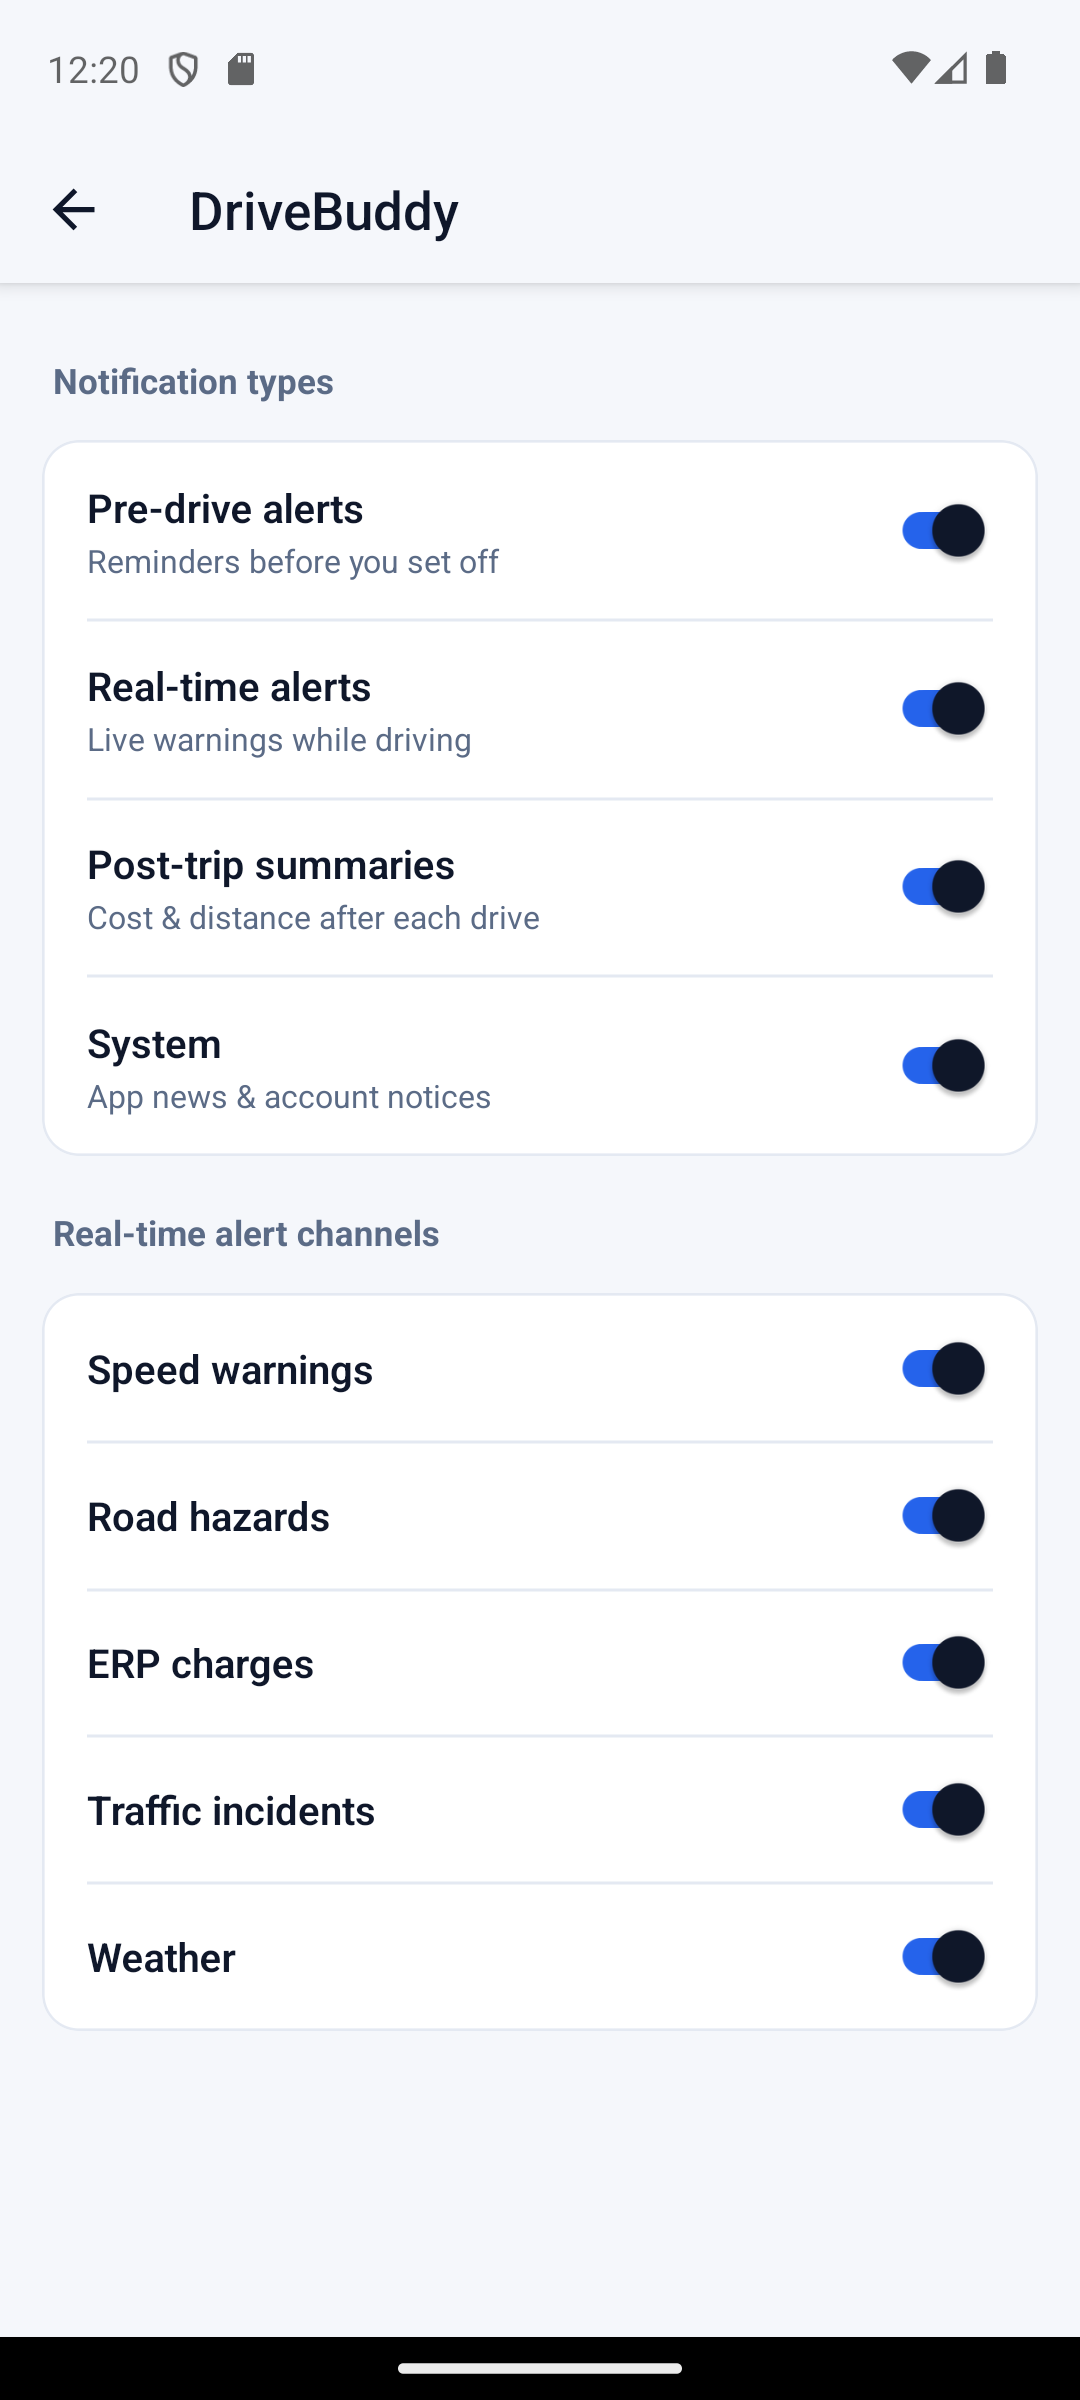
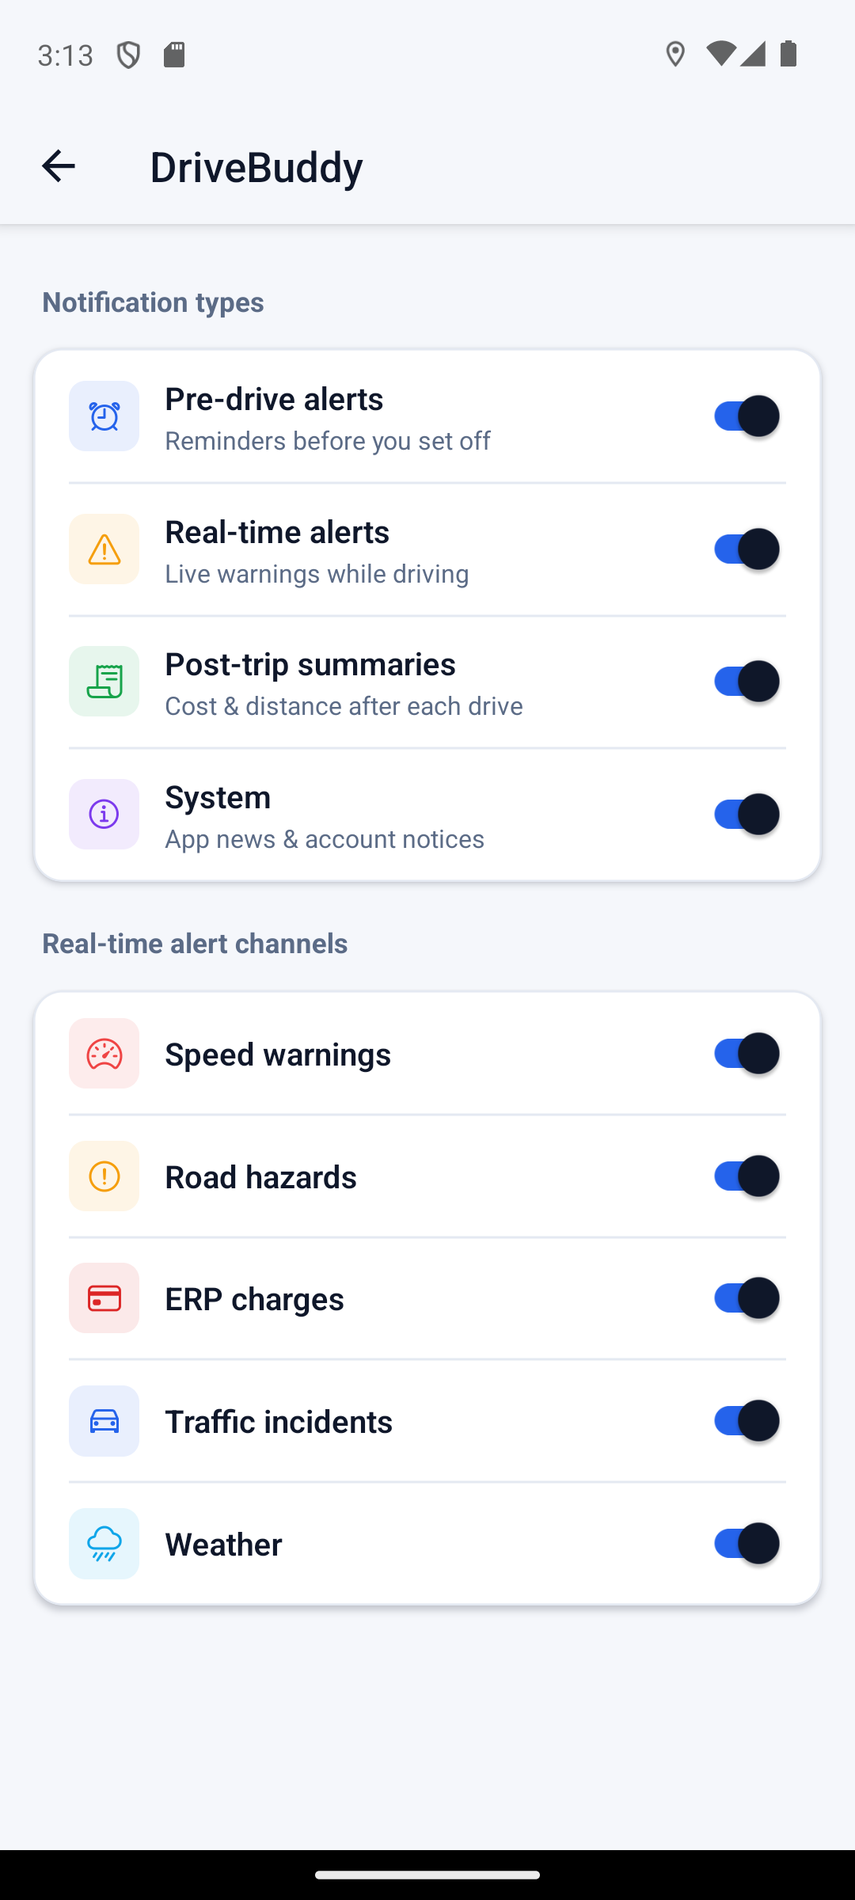
feat(ui): wow pass for settings, profile, vehicles, notifications, notif-settings
- settings: gradient avatar + coloured icon rows with chevrons + shadows
- profile: gradient Save button via Button primitive
- vehicles: fuel-type icon badges (petrol/hybrid/electric) + shadows
- notifications: per-type icon badges (pre-drive/real-time/post-trip/system) + shadows
- notification-settings: icon badges on every type & channel row + shadows
- refresh the five affected README screenshots

diff --git a/apps/drivebuddy/app/settings.tsx b/apps/drivebuddy/app/settings.tsx
@@ -1,8 +1,13 @@
 import Constants from "expo-constants";
 import { Pressable, ScrollView, StyleSheet, Text, View } from "react-native";
 import { SafeAreaView } from "react-native-safe-area-context";
+import { LinearGradient } from "expo-linear-gradient";
+import { Ionicons } from "@expo/vector-icons";
 import { useRouter } from "expo-router";
 import { useAuth } from "@/lib/auth-context";
+import { accent, colors, gradients, radius, shadow } from "@/lib/theme";
+
+type IoniconName = React.ComponentProps<typeof Ionicons>["name"];
 
 export default function SettingsScreen() {
   const router = useRouter();
@@ -14,9 +19,14 @@ export default function SettingsScreen() {
     <SafeAreaView style={styles.container} edges={["bottom"]}>
       <ScrollView contentContainerStyle={styles.inner}>
         <View style={styles.profileCard}>
-          <View style={styles.avatar}>
+          <LinearGradient
+            colors={gradients.primary as unknown as string[]}
+            start={{ x: 0, y: 0 }}
+            end={{ x: 1, y: 1 }}
+            style={styles.avatar}
+          >
             <Text style={styles.avatarText}>{(user?.fullName ?? "?").charAt(0).toUpperCase()}</Text>
-          </View>
+          </LinearGradient>
           <View style={{ flex: 1 }}>
             <Text style={styles.name}>{user?.fullName ?? "DriveBuddy user"}</Text>
             <Text style={styles.email}>{user?.email ?? ""}</Text>
@@ -25,15 +35,15 @@ export default function SettingsScreen() {
 
         <Text style={styles.section}>Account</Text>
         <View style={styles.group}>
-          <Row label="Edit profile" onPress={() => router.push("/profile")} />
-          <Row label="My vehicles" onPress={() => router.push("/vehicles")} />
-          <Row label="Notification settings" onPress={() => router.push("/notification-settings")} last />
+          <Row label="Edit profile" icon="person-outline" tint={accent.weather} onPress={() => router.push("/profile")} />
+          <Row label="My vehicles" icon="car-outline" tint={accent.fuel} onPress={() => router.push("/vehicles")} />
+          <Row label="Notification settings" icon="notifications-outline" tint={accent.traffic} onPress={() => router.push("/notification-settings")} last />
         </View>
 
         <Text style={styles.section}>Activity</Text>
         <View style={styles.group}>
-          <Row label="Trip history" onPress={() => router.push("/history")} />
-          <Row label="Recommendations" onPress={() => router.push("/recommendations")} last />
+          <Row label="Trip history" icon="time-outline" tint={accent.routine} onPress={() => router.push("/history")} />
+          <Row label="Recommendations" icon="bulb-outline" tint={accent.carpark} onPress={() => router.push("/recommendations")} last />
         </View>
 
         <Text style={styles.section}>About</Text>
@@ -51,10 +61,26 @@ export default function SettingsScreen() {
   );
 }
 
-function Row({ label, onPress, last }: { label: string; onPress: () => void; last?: boolean }) {
+function Row({
+  label,
+  icon,
+  tint,
+  onPress,
+  last,
+}: {
+  label: string;
+  icon: IoniconName;
+  tint: string;
+  onPress: () => void;
+  last?: boolean;
+}) {
   return (
     <Pressable style={[styles.row, !last && styles.rowBorder]} onPress={onPress}>
+      <View style={[styles.rowIconWrap, { backgroundColor: tint + "1a" }]}>
+        <Ionicons name={icon} size={18} color={tint} />
+      </View>
       <Text style={styles.rowLabel}>{label}</Text>
+      <Ionicons name="chevron-forward" size={18} color={colors.textDim} />
     </Pressable>
   );
 }
@@ -82,19 +108,19 @@ const styles = StyleSheet.create({
     borderWidth: 1,
     borderRadius: 14,
     padding: 16,
+    ...shadow,
   },
-  avatar: { width: 52, height: 52, borderRadius: 26, backgroundColor: "#2563eb", alignItems: "center", justifyContent: "center" },
+  avatar: { width: 52, height: 52, borderRadius: 26, alignItems: "center", justifyContent: "center" },
   avatarText: { color: "#fff", fontSize: 22, fontWeight: "800" },
   name: { color: "#0f172a", fontSize: 17, fontWeight: "700" },
   email: { color: "#5b6b86", fontSize: 13, marginTop: 2 },
   section: { color: "#5b6b86", fontSize: 13, fontWeight: "700", marginTop: 14, marginLeft: 4 },
-  group: { backgroundColor: "#ffffff", borderColor: "#e4e9f2", borderWidth: 1, borderRadius: 14, paddingHorizontal: 16 },
-  row: { flexDirection: "row", alignItems: "center", gap: 12, paddingVertical: 14 },
+  group: { backgroundColor: "#ffffff", borderColor: "#e4e9f2", borderWidth: 1, borderRadius: 14, paddingHorizontal: 16, ...shadow },
+  row: { flexDirection: "row", alignItems: "center", gap: 12, paddingVertical: 13 },
   rowBorder: { borderBottomColor: "#e4e9f2", borderBottomWidth: 1 },
-  rowIcon: { fontSize: 18 },
+  rowIconWrap: { width: 34, height: 34, borderRadius: radius.sm, alignItems: "center", justifyContent: "center" },
   rowLabel: { color: "#0f172a", fontSize: 15, flex: 1 },
   infoValue: { color: "#5b6b86", fontSize: 13, maxWidth: "60%" },
-  chevron: { color: "#2563eb", fontSize: 22, fontWeight: "300" },
   signOut: { alignItems: "center", paddingVertical: 16, marginTop: 10 },
   signOutText: { color: "#dc2626", fontSize: 15, fontWeight: "700" },
 });

diff --git a/apps/drivebuddy/app/notification-settings.tsx b/apps/drivebuddy/app/notification-settings.tsx
@@ -1,25 +1,28 @@
 import { useCallback, useState } from "react";
 import { ScrollView, StyleSheet, Switch, Text, View } from "react-native";
+import { Ionicons } from "@expo/vector-icons";
 import { SkeletonList } from "@/components/skeleton";
 import { SafeAreaView } from "react-native-safe-area-context";
 import { useFocusEffect } from "expo-router";
 import { api, type NotificationSettings } from "@/lib/api";
+import { accent, radius, shadow } from "@/lib/theme";
 
 type ToggleKey = keyof Omit<NotificationSettings, "userId" | "updatedAt">;
+type IoniconName = React.ComponentProps<typeof Ionicons>["name"];
 
-const TYPES: { key: ToggleKey; label: string; desc: string }[] = [
-  { key: "preDrive", label: "Pre-drive alerts", desc: "Reminders before you set off" },
-  { key: "realTime", label: "Real-time alerts", desc: "Live warnings while driving" },
-  { key: "postTrip", label: "Post-trip summaries", desc: "Cost & distance after each drive" },
-  { key: "system", label: "System", desc: "App news & account notices" },
+const TYPES: { key: ToggleKey; label: string; desc: string; icon: IoniconName; tint: string }[] = [
+  { key: "preDrive", label: "Pre-drive alerts", desc: "Reminders before you set off", icon: "alarm-outline", tint: accent.routine },
+  { key: "realTime", label: "Real-time alerts", desc: "Live warnings while driving", icon: "warning-outline", tint: accent.traffic },
+  { key: "postTrip", label: "Post-trip summaries", desc: "Cost & distance after each drive", icon: "receipt-outline", tint: accent.fuel },
+  { key: "system", label: "System", desc: "App news & account notices", icon: "information-circle-outline", tint: accent.carpark },
 ];
 
-const CHANNELS: { key: ToggleKey; label: string }[] = [
-  { key: "speed", label: "Speed warnings" },
-  { key: "hazard", label: "Road hazards" },
-  { key: "erp", label: "ERP charges" },
-  { key: "traffic", label: "Traffic incidents" },
-  { key: "weather", label: "Weather" },
+const CHANNELS: { key: ToggleKey; label: string; icon: IoniconName; tint: string }[] = [
+  { key: "speed", label: "Speed warnings", icon: "speedometer-outline", tint: accent.safety },
+  { key: "hazard", label: "Road hazards", icon: "alert-circle-outline", tint: accent.traffic },
+  { key: "erp", label: "ERP charges", icon: "card-outline", tint: accent.erp },
+  { key: "traffic", label: "Traffic incidents", icon: "car-outline", tint: accent.routine },
+  { key: "weather", label: "Weather", icon: "rainy-outline", tint: accent.weather },
 ];
 
 export default function NotificationSettingsScreen() {
@@ -66,6 +69,8 @@ export default function NotificationSettingsScreen() {
               key={t.key}
               label={t.label}
               desc={t.desc}
+              icon={t.icon}
+              tint={t.tint}
               value={settings[t.key]}
               onChange={(v) => toggle(t.key, v)}
               last={i === TYPES.length - 1}
@@ -79,6 +84,8 @@ export default function NotificationSettingsScreen() {
             <Row
               key={c.key}
               label={c.label}
+              icon={c.icon}
+              tint={c.tint}
               value={settings[c.key]}
               onChange={(v) => toggle(c.key, v)}
               disabled={!settings.realTime}
@@ -97,6 +104,8 @@ export default function NotificationSettingsScreen() {
 function Row({
   label,
   desc,
+  icon,
+  tint,
   value,
   onChange,
   disabled,
@@ -104,6 +113,8 @@ function Row({
 }: {
   label: string;
   desc?: string;
+  icon: IoniconName;
+  tint: string;
   value: boolean;
   onChange: (v: boolean) => void;
   disabled?: boolean;
@@ -111,6 +122,9 @@ function Row({
 }) {
   return (
     <View style={[styles.row, !last && styles.rowBorder]}>
+      <View style={[styles.rowIconWrap, { backgroundColor: tint + "1a" }]}>
+        <Ionicons name={icon} size={18} color={tint} />
+      </View>
       <View style={{ flex: 1 }}>
         <Text style={styles.rowLabel}>{label}</Text>
         {desc ? <Text style={styles.rowDesc}>{desc}</Text> : null}
@@ -131,10 +145,11 @@ const styles = StyleSheet.create({
   center: { flex: 1, backgroundColor: "#f5f7fb", justifyContent: "center", alignItems: "center" },
   inner: { padding: 16, gap: 8 },
   section: { color: "#5b6b86", fontSize: 13, fontWeight: "700", marginTop: 12, marginBottom: 6, marginLeft: 4 },
-  card: { backgroundColor: "#ffffff", borderColor: "#e4e9f2", borderWidth: 1, borderRadius: 14, paddingHorizontal: 16 },
+  card: { backgroundColor: "#ffffff", borderColor: "#e4e9f2", borderWidth: 1, borderRadius: 14, paddingHorizontal: 16, ...shadow },
   disabled: { opacity: 0.5 },
-  row: { flexDirection: "row", alignItems: "center", paddingVertical: 14 },
+  row: { flexDirection: "row", alignItems: "center", gap: 12, paddingVertical: 12 },
   rowBorder: { borderBottomColor: "#e4e9f2", borderBottomWidth: 1 },
+  rowIconWrap: { width: 34, height: 34, borderRadius: radius.sm, alignItems: "center", justifyContent: "center" },
   rowLabel: { color: "#0f172a", fontSize: 15, fontWeight: "600" },
   rowDesc: { color: "#5b6b86", fontSize: 12, marginTop: 2 },
   note: { color: "#94a3b8", fontSize: 12, marginLeft: 4, marginTop: 4 },

diff --git a/apps/drivebuddy/app/notifications.tsx b/apps/drivebuddy/app/notifications.tsx
@@ -1,9 +1,24 @@
 import { useCallback, useState } from "react";
 import { FlatList, Pressable, RefreshControl, StyleSheet, Text, View } from "react-native";
+import { Ionicons } from "@expo/vector-icons";
 import { SkeletonList } from "@/components/skeleton";
 import { SafeAreaView } from "react-native-safe-area-context";
 import { useFocusEffect, useRouter } from "expo-router";
-import { api, type AppNotification } from "@/lib/api";
+import { api, type AppNotification, type NotificationType } from "@/lib/api";
+import { accent, radius, shadow } from "@/lib/theme";
+
+const NOTIF_ICON: Record<NotificationType, React.ComponentProps<typeof Ionicons>["name"]> = {
+  PRE_DRIVE: "alarm-outline",
+  REAL_TIME: "warning-outline",
+  POST_TRIP: "receipt-outline",
+  SYSTEM: "information-circle-outline",
+};
+const NOTIF_TINT: Record<NotificationType, string> = {
+  PRE_DRIVE: accent.routine,
+  REAL_TIME: accent.traffic,
+  POST_TRIP: accent.fuel,
+  SYSTEM: accent.carpark,
+};
 
 export default function NotificationsScreen() {
   const router = useRouter();
@@ -83,6 +98,9 @@ export default function NotificationsScreen() {
         ListEmptyComponent={<Text style={styles.empty}>No notifications yet.</Text>}
         renderItem={({ item }) => (
           <Pressable style={[styles.row, !item.read && styles.unread]} onPress={() => onTap(item)}>
+            <View style={[styles.nIcon, { backgroundColor: NOTIF_TINT[item.type] + "1a" }]}>
+              <Ionicons name={NOTIF_ICON[item.type]} size={20} color={NOTIF_TINT[item.type]} />
+            </View>
             <View style={{ flex: 1 }}>
               <Text style={styles.title}>{item.title}</Text>
               <Text style={styles.body}>{item.body}</Text>
@@ -127,9 +145,10 @@ const styles = StyleSheet.create({
     borderWidth: 1,
     borderRadius: 14,
     padding: 16,
+    ...shadow,
   },
   unread: { borderColor: "#2563eb", backgroundColor: "#e8f0ff" },
-  icon: { fontSize: 22 },
+  nIcon: { width: 40, height: 40, borderRadius: radius.md, alignItems: "center", justifyContent: "center" },
   title: { color: "#0f172a", fontSize: 15, fontWeight: "700" },
   body: { color: "#5b6b86", fontSize: 13, marginTop: 2 },
   time: { color: "#94a3b8", fontSize: 11, marginTop: 4 },

diff --git a/apps/drivebuddy/app/vehicles.tsx b/apps/drivebuddy/app/vehicles.tsx
@@ -10,8 +10,21 @@ import {
   View,
 } from "react-native";
 import { SafeAreaView } from "react-native-safe-area-context";
+import { Ionicons } from "@expo/vector-icons";
 import { api, ApiError, type FuelType, type Vehicle } from "@/lib/api";
 import { SkeletonList } from "@/components/skeleton";
+import { accent, radius, shadow } from "@/lib/theme";
+
+const FUEL_ICON: Record<FuelType, React.ComponentProps<typeof Ionicons>["name"]> = {
+  Petrol: "car-sport-outline",
+  Hybrid: "leaf-outline",
+  Electric: "flash-outline",
+};
+const FUEL_TINT: Record<FuelType, string> = {
+  Petrol: accent.routine,
+  Hybrid: accent.fuel,
+  Electric: accent.weather,
+};
 
 const FUEL_TYPES: FuelType[] = ["Petrol", "Hybrid", "Electric"];
 
@@ -119,6 +132,9 @@ export default function VehiclesScreen() {
         ListEmptyComponent={<Text style={styles.empty}>No vehicles yet. Add your first one below.</Text>}
         renderItem={({ item }) => (
           <View style={styles.vehicle}>
+            <View style={[styles.vIcon, { backgroundColor: FUEL_TINT[item.fuelType] + "1a" }]}>
+              <Ionicons name={FUEL_ICON[item.fuelType]} size={22} color={FUEL_TINT[item.fuelType]} />
+            </View>
             <View style={{ flex: 1 }}>
               <View style={styles.row}>
                 <Text style={styles.plate}>{item.vehicleNumber}</Text>
@@ -205,7 +221,9 @@ const styles = StyleSheet.create({
     borderRadius: 14,
     padding: 16,
     gap: 10,
+    ...shadow,
   },
+  vIcon: { width: 44, height: 44, borderRadius: radius.md, alignItems: "center", justifyContent: "center" },
   row: { flexDirection: "row", alignItems: "center", gap: 8 },
   plate: { color: "#0f172a", fontSize: 18, fontWeight: "800", letterSpacing: 1 },
   mainBadge: {

diff --git a/apps/drivebuddy/app/profile.tsx b/apps/drivebuddy/app/profile.tsx
@@ -1,8 +1,9 @@
 import { useEffect, useState } from "react";
-import { ActivityIndicator, Pressable, ScrollView, StyleSheet, Text, TextInput, View } from "react-native";
+import { ScrollView, StyleSheet, Text, TextInput, View } from "react-native";
 import { SkeletonList } from "@/components/skeleton";
 import { SafeAreaView } from "react-native-safe-area-context";
 import { api, type Profile } from "@/lib/api";
+import { Button } from "@/components/ui";
 
 export default function ProfileScreen() {
   const [loading, setLoading] = useState(true);
@@ -95,9 +96,7 @@ export default function ProfileScreen() {
 
         {msg ? <Text style={styles.msg}>{msg}</Text> : null}
 
-        <Pressable style={[styles.button, saving && { opacity: 0.6 }]} onPress={onSave} disabled={saving}>
-          {saving ? <ActivityIndicator color="#fff" /> : <Text style={styles.buttonText}>Save changes</Text>}
-        </Pressable>
+        <Button label="Save changes" onPress={onSave} loading={saving} style={{ marginTop: 8 }} />
       </ScrollView>
     </SafeAreaView>
   );
@@ -129,7 +128,5 @@ const styles = StyleSheet.create({
     fontSize: 16,
   },
   readonly: { color: "#5b6b86", fontSize: 16, paddingVertical: 12 },
-  button: { backgroundColor: "#2563eb", borderRadius: 12, paddingVertical: 15, alignItems: "center", marginTop: 8 },
-  buttonText: { color: "#fff", fontSize: 16, fontWeight: "700" },
   msg: { color: "#16a34a", textAlign: "center" },
 });
